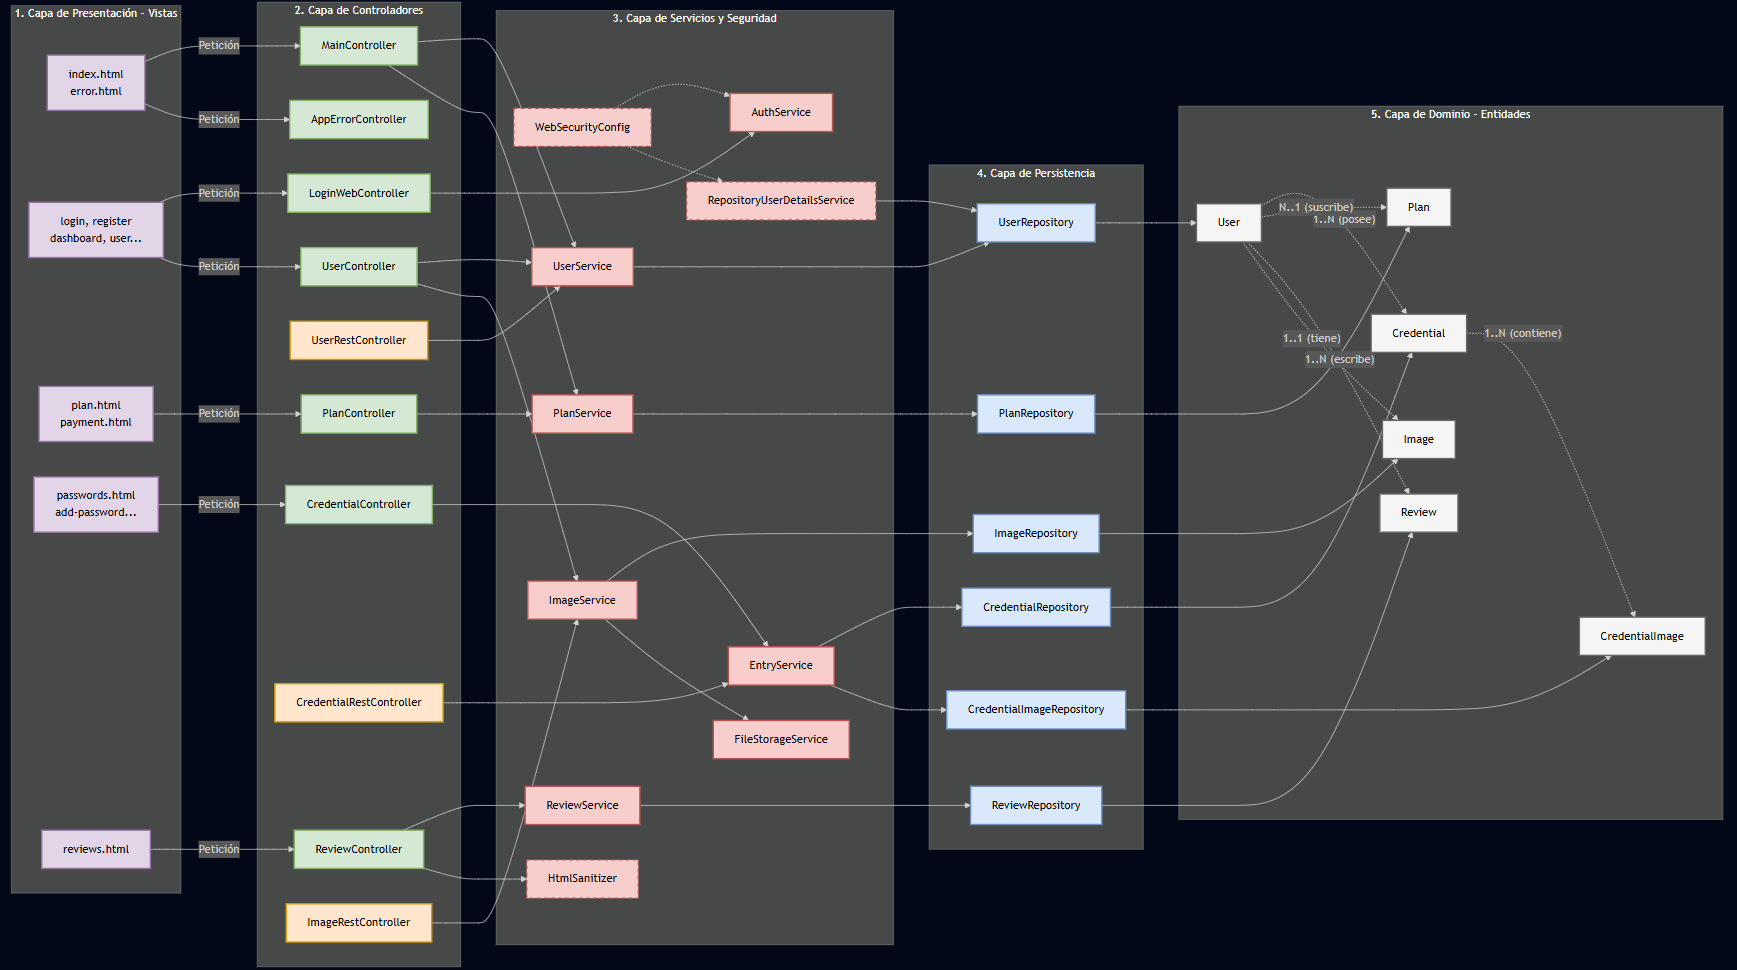
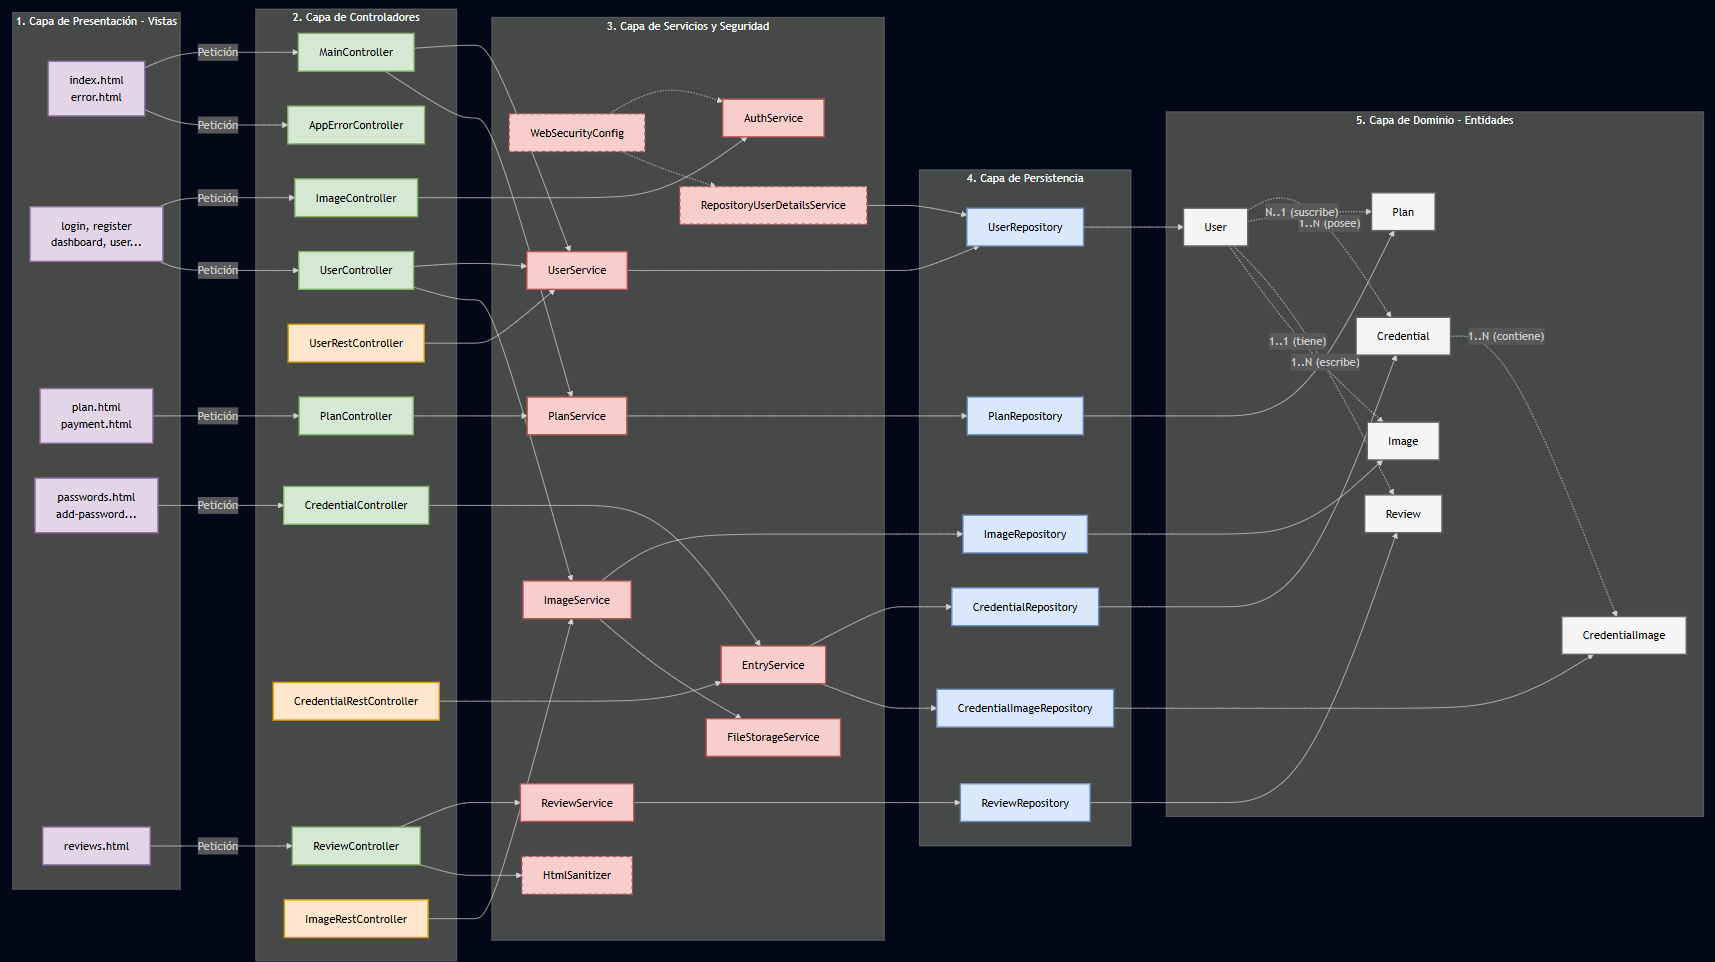
Readme con participacion y cambio en el diagrama de clases

diff --git a/README.md b/README.md
@@ -394,13 +394,13 @@ Diagrama actualizado incluyendo los @RestController y su relación con los @Serv
 
 ---
 
-#### **Alumno 2 - [Nombre Completo]**
+#### **Alumno 2 - [Yago Contreras Nevares]**
 
-[Descripción de las tareas y responsabilidades principales del alumno en el proyecto]
+[Encargado de la api de User e imágenes, ademas de arreglar vulnerabilidades como XSS, SSRF o Path Traversal entre otras]
 
 | Nº    | Commits      | Files      |
 |:------------: |:------------:| :------------:|
-|1| [Descripción commit 1](URL_commit_1)  | [Archivo1](URL_archivo_1)   |
+|1| [Api de User e imagenes](https://github.com/DWS-2026/project-grupo-8/commit/2581f8332e41303e2c2059ee9dfca644b452b15e)  | [UserRestController, ImageRestController](https://github.com/DWS-2026/project-grupo-8/commit/2581f8332e41303e2c2059ee9dfca644b452b15e)   |
 |2| [Descripción commit 2](URL_commit_2)  | [Archivo2](URL_archivo_2)   |
 |3| [Descripción commit 3](URL_commit_3)  | [Archivo3](URL_archivo_3)   |
 |4| [Descripción commit 4](URL_commit_4)  | [Archivo4](URL_archivo_4)   |